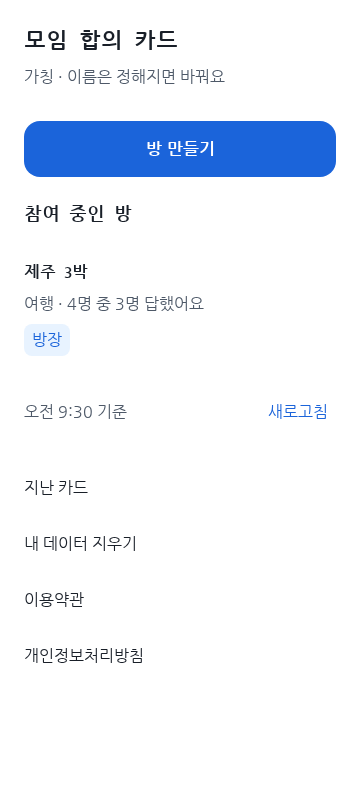
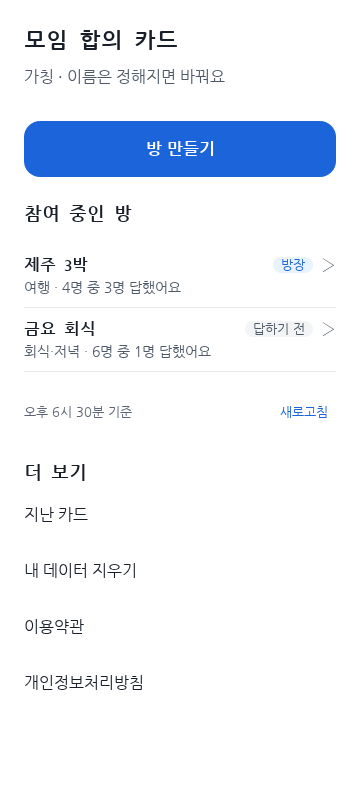
TASK-038: align home loading and refresh states

diff --git a/apps/web/src/Home.tsx b/apps/web/src/Home.tsx
@@ -10,22 +10,26 @@ type RoomList = { rooms: Room[]; asOf: string };
 export function Home() {
   const [data, setData] = React.useState<RoomList>();
   const [loading, setLoading] = React.useState(false);
+  const [refreshing, setRefreshing] = React.useState(false);
+  const dataRef = React.useRef<RoomList>();
   const [error, setError] = React.useState<string>();
   const [permission, setPermission] = React.useState(false);
   const pending = React.useRef(false);
   const load = React.useCallback(async () => {
     if (pending.current) return;
     pending.current = true;
-    const timer = setTimeout(() => setLoading(true), 1000);
+    const hasData = Boolean(dataRef.current);
+    if (hasData) setRefreshing(true);
+    const timer = hasData ? undefined : setTimeout(() => setLoading(true), 1000);
     setError(undefined);
     try {
       const result = await client.operation<RoomList>('/v1/me/rooms')();
-      setData(result);
+      dataRef.current = result; setData(result);
     } catch (err) {
       if (err instanceof ApiError && err.problem.code === 'origin_not_allowed') setPermission(true);
       else if (err instanceof ApiError && ['unauthenticated', 'reauthentication_failed'].includes(err.problem.code)) { sessionState.reauthenticationFailed = true; navigate('/', true); }
       else setError(err instanceof ApiError ? err.problem.traceId || '' : '');
-    } finally { clearTimeout(timer); setLoading(false); pending.current = false; }
+    } finally { if (timer) clearTimeout(timer); setLoading(false); setRefreshing(false); pending.current = false; }
   }, []);
   React.useEffect(() => { void load(); return onVisible(() => void load()); }, [load]);
   if (permission) return <main className="entry"><section className="entry-content"><h1>지금은 쓸 수 없어요</h1></section></main>;
@@ -34,10 +38,10 @@ export function Home() {
     <Button display="block" onClick={() => navigate('/rooms/new')}>방 만들기</Button>
     <section aria-labelledby="rooms-title"><h2 id="rooms-title">참여 중인 방</h2>
       {error !== undefined && <div role="alert"><p>잠시 뒤 다시 해 주세요</p>{error && <p>오류 번호 {error}</p>}<button className="link-button" onClick={() => void load()}>다시 시도</button></div>}
-      {!data && loading && <div role="status" className="skeletons"><span /><span /><span className="sr-only">불러오고 있어요</span></div>}
-      {data && <>{data.rooms.length === 0 ? <div className="empty"><p>참여 중인 방이 없어요</p><p>방을 만들고 친구를 불러 보세요</p></div> : <ul className="room-list">{data.rooms.map(room => <li key={room.roomCode}><button className="room-button" onClick={() => { entryContext.room = room.roomCode; navigate('/room'); }}><strong>{room.gatheringName}</strong><span>{room.theme.name} · {room.partySize}명 중 {room.submittedCount}명 답했어요</span>{(room.myRole === 'host' || !room.mySubmitted) && <span className="room-tags">{room.myRole === 'host' && <span className="room-tag">방장</span>}{!room.mySubmitted && <span className="room-tag">답하기 전</span>}</span>}</button></li>)}</ul>}
-      <div className="as-of"><span>{formatAsOf(data.asOf)}{loading ? ' · 불러오는 중' : ''}</span><button className="link-button" onClick={() => void load()}>새로고침</button></div></>}
+      {!data && loading && <div role="status" aria-label="불러오고 있어요"><div className="room-skeleton"><span /><span /></div><div className="room-skeleton"><span /><span /></div></div>}
+      {data && error === undefined && <>{data.rooms.length === 0 ? <div className="empty"><p>참여 중인 방이 없어요</p><p>방을 만들고 친구를 불러 보세요</p></div> : <ul className="room-list">{data.rooms.map(room => <li key={room.roomCode}><button className="room-button" onClick={() => { entryContext.room = room.roomCode; navigate('/room'); }}><span className="room-top"><strong>{room.gatheringName}</strong><span className="room-tags">{room.myRole === 'host' && <span className="room-tag">방장</span>}{!room.mySubmitted && <span className="room-tag room-tag-muted">답하기 전</span>}<span aria-hidden="true">›</span></span></span><span className="room-detail">{room.theme.name} · {room.partySize}명 중 {room.submittedCount}명 답했어요</span></button></li>)}</ul>}
+      <div className="as-of"><span>{formatAsOf(data.asOf)}{refreshing && <> · 다시 불러오는 중 <span aria-hidden="true" className="refresh-spinner" /></>}</span>{!refreshing && <button className="link-button" onClick={() => void load()}>새로고침</button>}</div></>}
     </section>
-    <nav aria-label="메뉴">{[['지난 카드', '/past-cards'], ['내 데이터 지우기', '/me/delete'], ['이용약관', '/legal/terms'], ['개인정보처리방침', '/legal/privacy']].map(([label, path]) => <button className="menu-button" key={path} onClick={() => navigate(path)}>{label}</button>)}</nav>
+    <nav aria-label="메뉴"><h2>더 보기</h2>{[['지난 카드', '/past-cards'], ['내 데이터 지우기', '/me/delete'], ['이용약관', '/legal/terms'], ['개인정보처리방침', '/legal/privacy']].map(([label, path]) => <button className="menu-button" key={path} onClick={() => navigate(path)}>{label}</button>)}</nav>
   </main>;
 }

diff --git a/apps/web/e2e/home-prism.spec.ts b/apps/web/e2e/home-prism.spec.ts
@@ -1,4 +1,5 @@
 import { test, expect, type Page } from '@playwright/test';
+test.use({ timezoneId: 'Asia/Seoul', viewport: { width: 360, height: 800 } });
 type Selection = { code: number; example?: string; delay?: number };
 async function prism(page: Page, selections: Selection[]) {
   let calls = 0;
@@ -15,6 +16,7 @@ test('Prism 정상 목록과 방 코드 비노출을 확인한다', async ({ pag
   await prism(page, [{ code: 200, example: 'two-rooms' }]); await page.goto('/home');
   await expect(page.getByText('제주 3박')).toBeVisible(); await expect(page.getByText('금요 회식')).toBeVisible();
   await expect(page.getByText('ABCDEFGH23')).toHaveCount(0);
+  if (process.env.CAPTURE_HOME_PRISM) await page.screenshot({ path: '../../docs/10-wbs/captures/task-038.png', fullPage: true });
   const markup = await page.locator('body').innerText(); expect(markup).not.toContain('KMNPQRST45');
 });
 test('Prism 빈 목록을 표시한다', async ({ page }) => {
@@ -22,9 +24,12 @@ test('Prism 빈 목록을 표시한다', async ({ page }) => {
   await expect(page.getByText('참여 중인 방이 없어요')).toBeVisible(); await expect(page.getByRole('button', { name: '방 만들기' })).toBeVisible();
 });
 test('1초 이상이면 목록 자리에 표시하고 메뉴는 사용할 수 있다', async ({ page }) => {
-  await prism(page, [{ code: 200, example: 'empty', delay: 4000 }]); await page.goto('/home', { waitUntil: 'domcontentloaded' });
+  await prism(page, [{ code: 200, example: 'two-rooms', delay: 4000 }]); await page.goto('/home', { waitUntil: 'domcontentloaded' });
   await expect(page.getByRole('status')).toBeVisible(); await expect(page.getByRole('button', { name: '지난 카드' })).toBeEnabled();
-  await expect(page.getByText('참여 중인 방이 없어요')).toBeVisible();
+  const skeleton = await page.locator('.room-skeleton').first().boundingBox();
+  await expect(page.getByText('제주 3박')).toBeVisible();
+  const row = await page.getByRole('button', { name: /제주 3박/ }).boundingBox();
+  expect(skeleton!.height).toBe(row!.height);
 });
 test('오류에서 다시 시도해 목록을 불러온다', async ({ page }) => {
   await prism(page, [{ code: 500 }, { code: 200, example: 'empty' }]); await page.goto('/home');
@@ -39,7 +44,8 @@ test('복귀 시 지난 목록을 유지하며 다시 불러온다', async ({ pa
   const calls = await prism(page, [{ code: 200, example: 'two-rooms' }, { code: 200, example: 'empty', delay: 4000 }]);
   await page.goto('/home'); await expect(page.getByText('제주 3박')).toBeVisible();
   await page.evaluate(() => document.dispatchEvent(new Event('visibilitychange')));
-  await expect(page.getByText('제주 3박')).toBeVisible(); await expect(page.getByText(/불러오는 중/)).toBeVisible();
+  await expect(page.getByText('제주 3박')).toBeVisible(); await expect(page.getByText(/다시 불러오는 중/)).toBeVisible();
+  await expect(page.locator('.refresh-spinner')).toBeVisible(); await expect(page.getByRole('button', { name: '새로고침' })).toHaveCount(0);
   await expect(page.getByText('참여 중인 방이 없어요')).toBeVisible(); expect(calls()).toBe(2);
 });
 test('401 재확인에 실패하면 확인 오류 화면으로 이동한다', async ({ page }) => {
@@ -53,4 +59,11 @@ test('메뉴와 방 만들기는 정의된 화면 경로로 이동한다', async
     await page.goto('/home'); await page.getByRole('button', { name: label }).click();
     await expect(page).toHaveURL(new RegExp(path + '$'));
   }
+});
+
+test('갱신 실패 시 목록 자리에는 오류만 보여 준다', async ({ page }) => {
+  await prism(page, [{ code: 200, example: 'two-rooms' }, { code: 500 }]);
+  await page.goto('/home'); await expect(page.getByText('제주 3박')).toBeVisible();
+  await page.getByRole('button', { name: '새로고침' }).click();
+  await expect(page.getByText('잠시 뒤 다시 해 주세요')).toBeVisible(); await expect(page.getByText('제주 3박')).toHaveCount(0);
 });

diff --git a/apps/web/src/style.css b/apps/web/src/style.css
@@ -22,14 +22,26 @@ main { color: var(--color-text-primary); padding: var(--space-6); }
 .room-list { padding: 0; margin: 0; list-style: none; }
 .room-button, .menu-button, .link-button { font: inherit; color: var(--color-text-primary); background: var(--color-bg-page); border: 0; cursor: pointer; min-height: var(--size-touch); }
 .room-button, .menu-button { width: 100%; text-align: left; padding: var(--space-4) 0; }
-.room-button { display: flex; flex-direction: column; gap: var(--space-2); }
+.room-button { line-height: 1.25; display: flex; flex-direction: column; justify-content: center; gap: var(--space-1); min-height: calc(var(--space-8) * 2); box-sizing: border-box; padding: var(--space-2) 0; border-bottom-width: 1px; border-bottom-style: solid; border-bottom-color: var(--color-border-divider); }
+.room-top { display: flex; align-items: center; justify-content: space-between; gap: var(--space-2); }
+.room-top strong { color: var(--color-text-primary); flex: 1; }
+.room-detail { font-size: var(--font-size-small); }
+.room-skeleton { height: calc(var(--space-8) * 2); box-sizing: border-box; display: flex; flex-direction: column; justify-content: center; gap: var(--space-2); border-bottom-width: 1px; border-bottom-style: solid; border-bottom-color: var(--color-border-divider); }
+.room-skeleton span { display: block; background: var(--color-skeleton); }
+.room-skeleton span:first-child { height: var(--space-4); width: 55%; }
+.room-skeleton span:last-child { height: var(--space-3); width: 75%; }
+.refresh-spinner { display: inline-block; width: var(--space-4); height: var(--space-4); box-sizing: border-box; border-width: 2px; border-style: solid; border-color: var(--color-border-divider); border-top-color: var(--color-accent-default); border-radius: var(--radius-pill); animation: refresh-spin 800ms linear infinite; }
+@keyframes refresh-spin { to { transform: rotate(360deg); } }
+@media (prefers-reduced-motion: reduce) { .refresh-spinner { animation: none; } }
 .room-button span, .as-of, .empty { color: var(--color-text-secondary); }
-.as-of { display: flex; justify-content: space-between; align-items: center; }
+.as-of { font-size: var(--font-size-caption); color: var(--color-text-tertiary); display: flex; justify-content: space-between; align-items: center; }
 .link-button { color: var(--color-accent-default); padding: 0 var(--space-2); }
 .home nav { display: flex; flex-direction: column; }
 .skeletons { display: flex; flex-direction: column; gap: var(--space-2); }
 .skeletons span:not(.sr-only) { height: var(--size-touch); background: var(--color-skeleton); }
 .sr-only { position: absolute; width: 1px; height: 1px; overflow: hidden; clip-path: inset(50%); }
 
-.room-button .room-tags { display: flex; gap: var(--space-2); }
-.room-button .room-tag { background: var(--color-accent-subtle); color: var(--color-accent-on-subtle); padding: var(--space-1) var(--space-2); border-radius: var(--radius-chip); }
+.room-button .room-tags { display: flex; align-items: center; gap: var(--space-2); }
+.room-button .room-tag { font-size: var(--font-size-caption); background: var(--color-accent-subtle); color: var(--color-accent-on-subtle); padding: 0 var(--space-2); border-radius: var(--radius-chip); }
+
+.room-button .room-tag-muted { background: var(--color-bg-subtle); color: var(--color-text-secondary); }

diff --git a/apps/web/src/api.ts b/apps/web/src/api.ts
@@ -83,7 +83,9 @@ export function onVisible(refresh: () => void): () => void {
   return () => document.removeEventListener('visibilitychange', listener);
 }
 export function formatAsOf(value: string): string {
-  return `${new Intl.DateTimeFormat('ko-KR', { hour: 'numeric', minute: '2-digit' }).format(new Date(value))} 기준`;
+  const parts = new Intl.DateTimeFormat('ko-KR', { hour: 'numeric', minute: '2-digit', hour12: true }).formatToParts(new Date(value));
+  const get = (type: string) => parts.find(part => part.type === type)?.value || '';
+  return `${get('dayPeriod')} ${get('hour')}시 ${Number(get('minute'))}분 기준`;
 }
 
 export function retrySeconds(retryAfter: number, receivedAt: number, now = Date.now()): number {

diff --git a/docs/10-wbs/wbs.md b/docs/10-wbs/wbs.md
@@ -66,9 +66,9 @@
 | TASK-035 | 웹 뼈대(TDS, SDK, 경로, 토큰) | 2 | SPEC-035, SPEC-009 | REQ-056, REQ-064, REQ-065, REQ-066, REQ-075, REQ-076, REQ-077 | SCR-001~SCR-015 경로, `design/base.tokens.json`, TDS | TASK-001 | Codex | M | Vite + React(CSR)에 TDS(`@toss/tds-mobile`, `@toss/tds-mobile-ait`)와 앱인토스 SDK 3.x가 들어가요. 사이트맵 경로 15개, 기록 바꿔 끼우기(S-2, S-3), 라이트 모드 고정, 핀치 줌 끔, 자체 뒤로가기 버튼 0개예요. 토큰은 CSS 변수로 쓰고 `color.card` 토큰을 카드 컴포넌트 밖에서 쓰면 검사가 실패해요. Prism 목 서버로 띄우는 명령이 README에 있어요. | 할 일 |
 | TASK-036 | API 클라이언트와 공통 처리 G-1~G-10 | 2 | SPEC-002, C-1, C-2, C-3, C-9, C-10 | REQ-040, REQ-041, REQ-069, REQ-070 | API-001~API-016, G-1~G-10 | TASK-035 | Codex | M | Bearer 토큰, `Idempotency-Key`(시간 초과 뒤 같은 키로 다시), 10초 시간 초과, 1초 넘으면 자리 표시, 401이면 한 번 다시 확인, 429 `Retry-After` 남은 초, `asOf` 표시, `visibilitychange` 다시 불러오기가 G-1~G-10대로 테스트돼요. 방 코드를 console·`Analytics.log` 파라미터·오류 보고에 남기면 실패하는 검사가 있어요(DEC-025). | 할 일 |
 | TASK-037 | SCR-001 진입 확인 | 2 | SPEC-001, SPEC-002, SPEC-023 | REQ-039, REQ-040, REQ-041, REQ-042, REQ-057, REQ-066, REQ-068, REQ-069, REQ-070, REQ-073 | SCR-001, API-001, API-016 | TASK-036 | Codex | M | SCR-001의 상태 4개(loading, error, permission, update-required)가 목 서버 응답대로 보여요. 토스 앱 5.231.0이면 업데이트 안내만 보이고 서버 요청 0건, 인증 코드는 `User.createAnonymousKeyAuthCode`로 받고, 초대 링크의 방 코드를 읽은 뒤 주소에서 지워요. 진입 직후 바텀시트 0번이에요. | 할 일 |
-| TASK-038 | SCR-002 홈 | 2 | SPEC-039, SPEC-027, SPEC-033 | REQ-005, REQ-025, REQ-050, REQ-083 | SCR-002, API-012 | TASK-036 | Codex | M | SCR-002의 상태 6개가 목 서버 응답대로 보이고, 방을 고르면 상태에 따라 SCR-007·SCR-009·SCR-010으로 가요. 지난 카드·내 데이터 지우기·약관 메뉴가 있어요. | 할 일 |
+| TASK-038 | SCR-002 홈 | 2 | SPEC-039, SPEC-027, SPEC-033 | REQ-005, REQ-025, REQ-050, REQ-083 | SCR-002, API-012 | TASK-036 | Codex | M | SCR-002의 상태 6개가 목 서버 응답대로 보이고, 방을 고르면 방 코드를 메모리에 두고 SCR-005로 가요. 지난 카드·내 데이터 지우기·약관 메뉴가 있어요. | 할 일 |
 | TASK-039 | SCR-003·SCR-004 테마 고르기와 방 정보 적기 | 2 | SPEC-004, SPEC-005, SPEC-008 | REQ-001, REQ-002, REQ-003, REQ-033, REQ-037, REQ-049, REQ-082 | SCR-003, SCR-004, API-002, API-003 | TASK-036, TASK-008 | Codex | M | 두 화면의 상태 9개가 목 서버 응답대로 보이고, 400이면 칸별 이유가 보이며 적은 값이 남아요. | 할 일 |
-| TASK-040 | SCR-005·SCR-006 방 소개와 닉네임 정하기 | 2 | SPEC-006, SPEC-007, SPEC-008, SPEC-009 | REQ-004, REQ-005, REQ-006, REQ-016, REQ-049, REQ-055, REQ-056, REQ-065 | SCR-005, SCR-006, API-004, API-005 | TASK-036, TASK-008 | Codex | M | 두 화면의 상태 11개(SCR-005#full 포함)가 목 서버 응답대로 보이고, 초대 링크로 연 첫 화면에서 뒤로가기는 미니앱을 닫아요. | 할 일 |
+| TASK-040 | SCR-005·SCR-006 방 소개와 닉네임 정하기 | 2 | SPEC-006, SPEC-007, SPEC-008, SPEC-009 | REQ-004, REQ-005, REQ-006, REQ-016, REQ-049, REQ-055, REQ-056, REQ-065 | SCR-005, SCR-006, API-004, API-005 | TASK-036, TASK-008 | Codex | M | 두 화면의 상태 11개(SCR-005#full 포함)가 목 서버 응답대로 보이고, 초대 링크로 연 첫 화면에서 뒤로가기는 미니앱을 닫아요. SCR-005가 방 상태를 다시 보고 SCR-007·SCR-008·SCR-009·SCR-010으로 보내요. | 할 일 |
 | TASK-041 | SCR-007 문항 | 2 | SPEC-010, SPEC-011, SPEC-009 | REQ-007, REQ-011, REQ-012, REQ-013, REQ-030, REQ-056, REQ-065 | SCR-007, API-006, API-007 | TASK-036 | Codex | M | SCR-007의 상태 5개가 목 서버 응답대로 보여요. 고른 답이 기기 저장소에 남아 다시 열면 이어지고, 8개를 다 고를 때까지 [제출하기]가 꺼져 있고 "n개 남았어요"가 보여요. | 할 일 |
 | TASK-042 | SCR-008 내 결과와 알림 신청 | 2 | SPEC-012, SPEC-024 | REQ-022, REQ-026, REQ-027, REQ-028, REQ-029, REQ-058, REQ-061 | SCR-008, API-008, API-004, API-011 | TASK-036 | Codex | M | SCR-008의 상태 7개가 목 서버 응답대로 보여요. `Notification.requestAgreement.isSupported()`가 false면 notify-update, 동의 거절이면 신청 0개, 동의하면 새 인증 코드와 함께 API-011을 불러요. | 할 일 |
 | TASK-043 | SCR-009 합의 카드와 방장 마감 | 2 | SPEC-019, SPEC-016, SPEC-017, SPEC-018 | REQ-008, REQ-009, REQ-010, REQ-014, REQ-017, REQ-018, REQ-019, REQ-020, REQ-021, REQ-022, REQ-025, REQ-071 | SCR-009, API-009, API-004, API-010 | TASK-036 | Codex | L | SCR-009의 상태 7개(confirm-close 포함)가 목 서버 응답대로 보이고, 합의 카드는 DEC-033의 카드 모양이에요. `logConversion`이면 `Analytics.log`(`interim_card_created`, 파라미터에 방 코드·사용자 ID 없음)를 한 번 불러요. 방장 버튼 3개는 DEC-034대로예요. | 할 일 |
